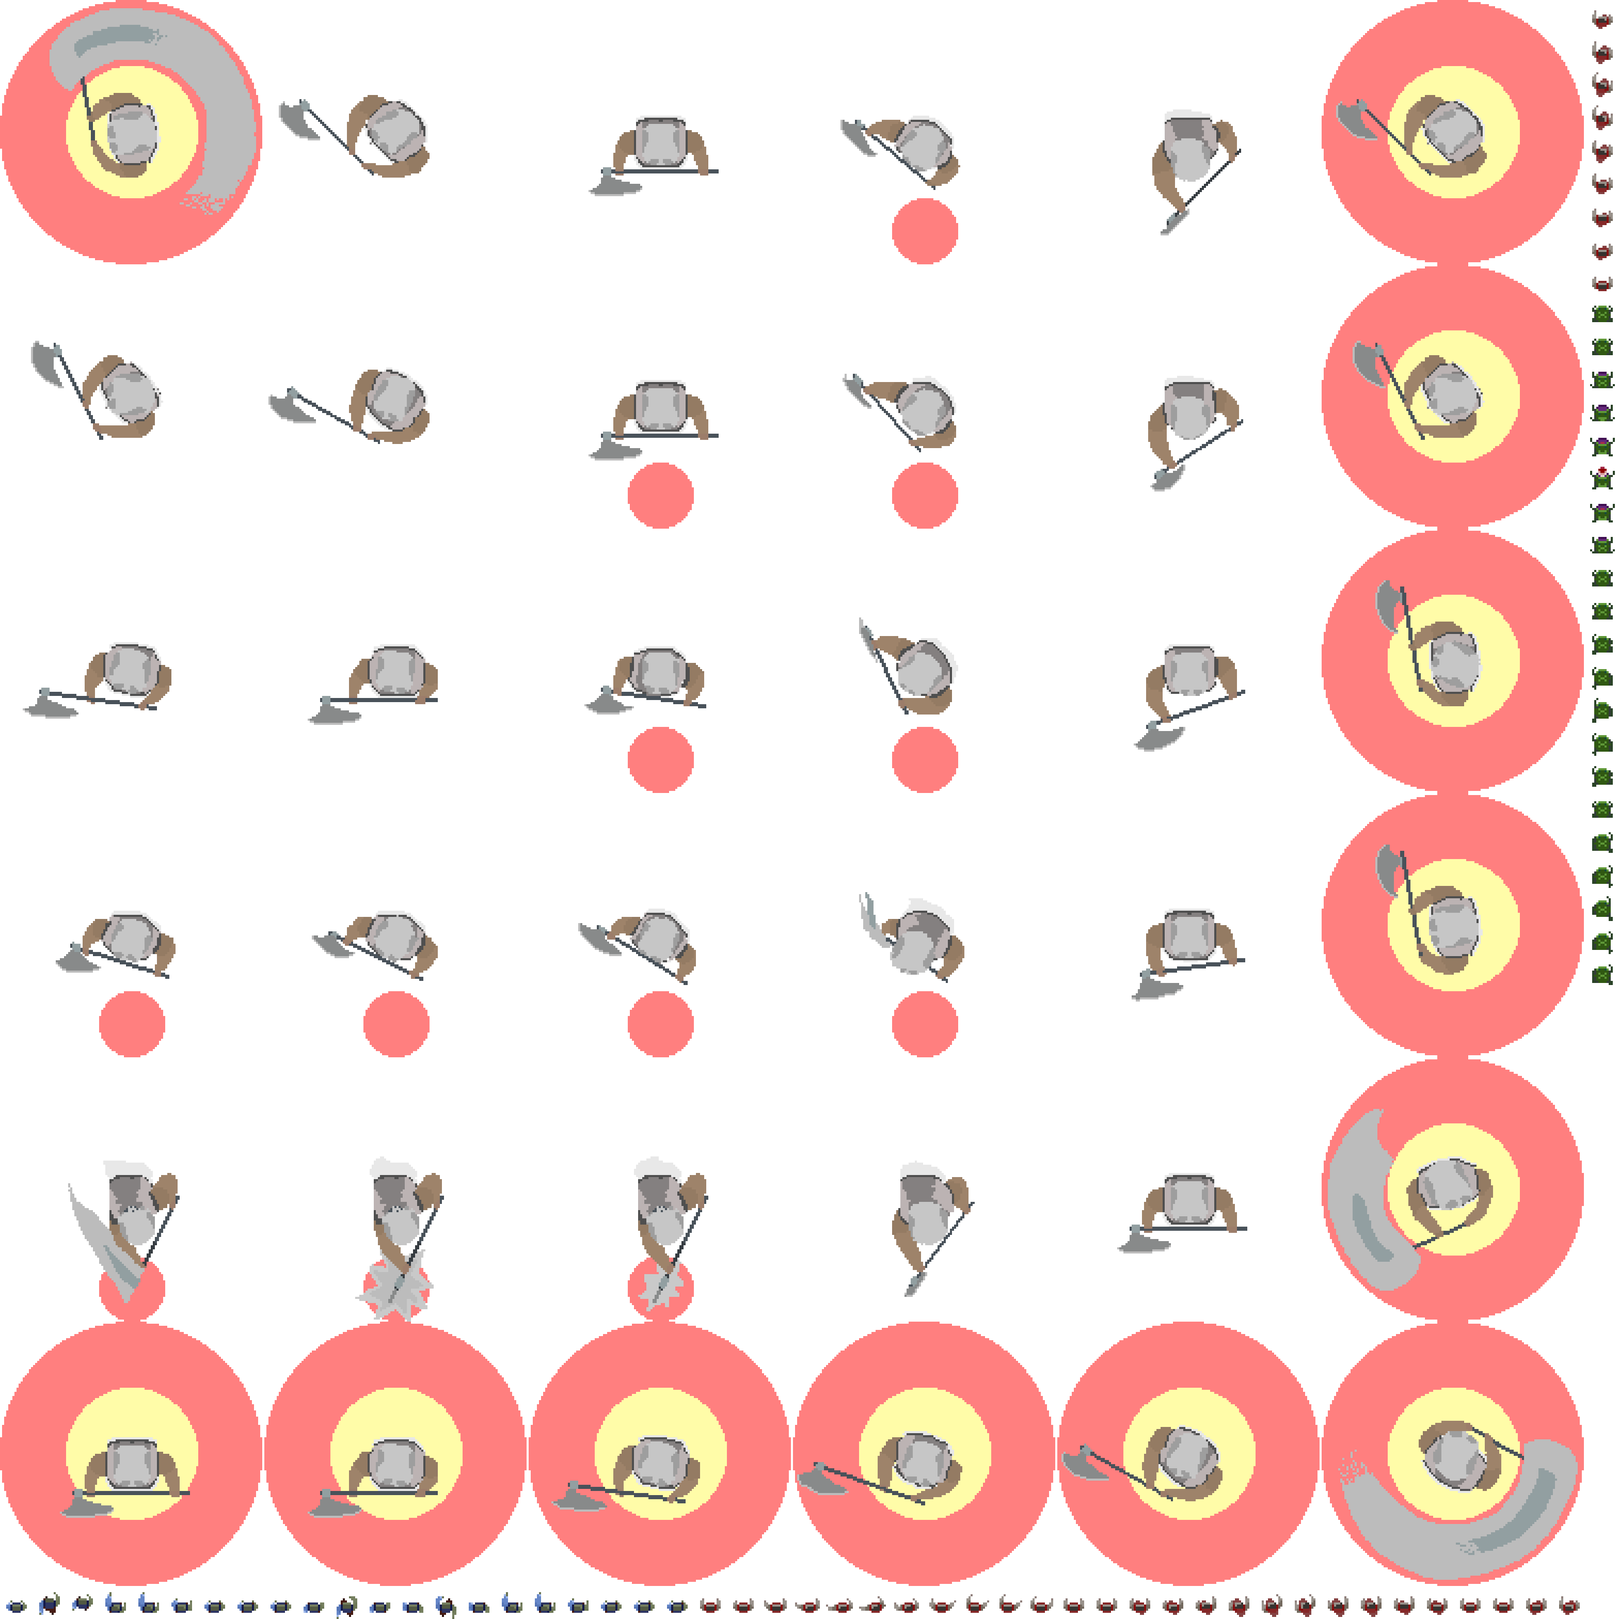
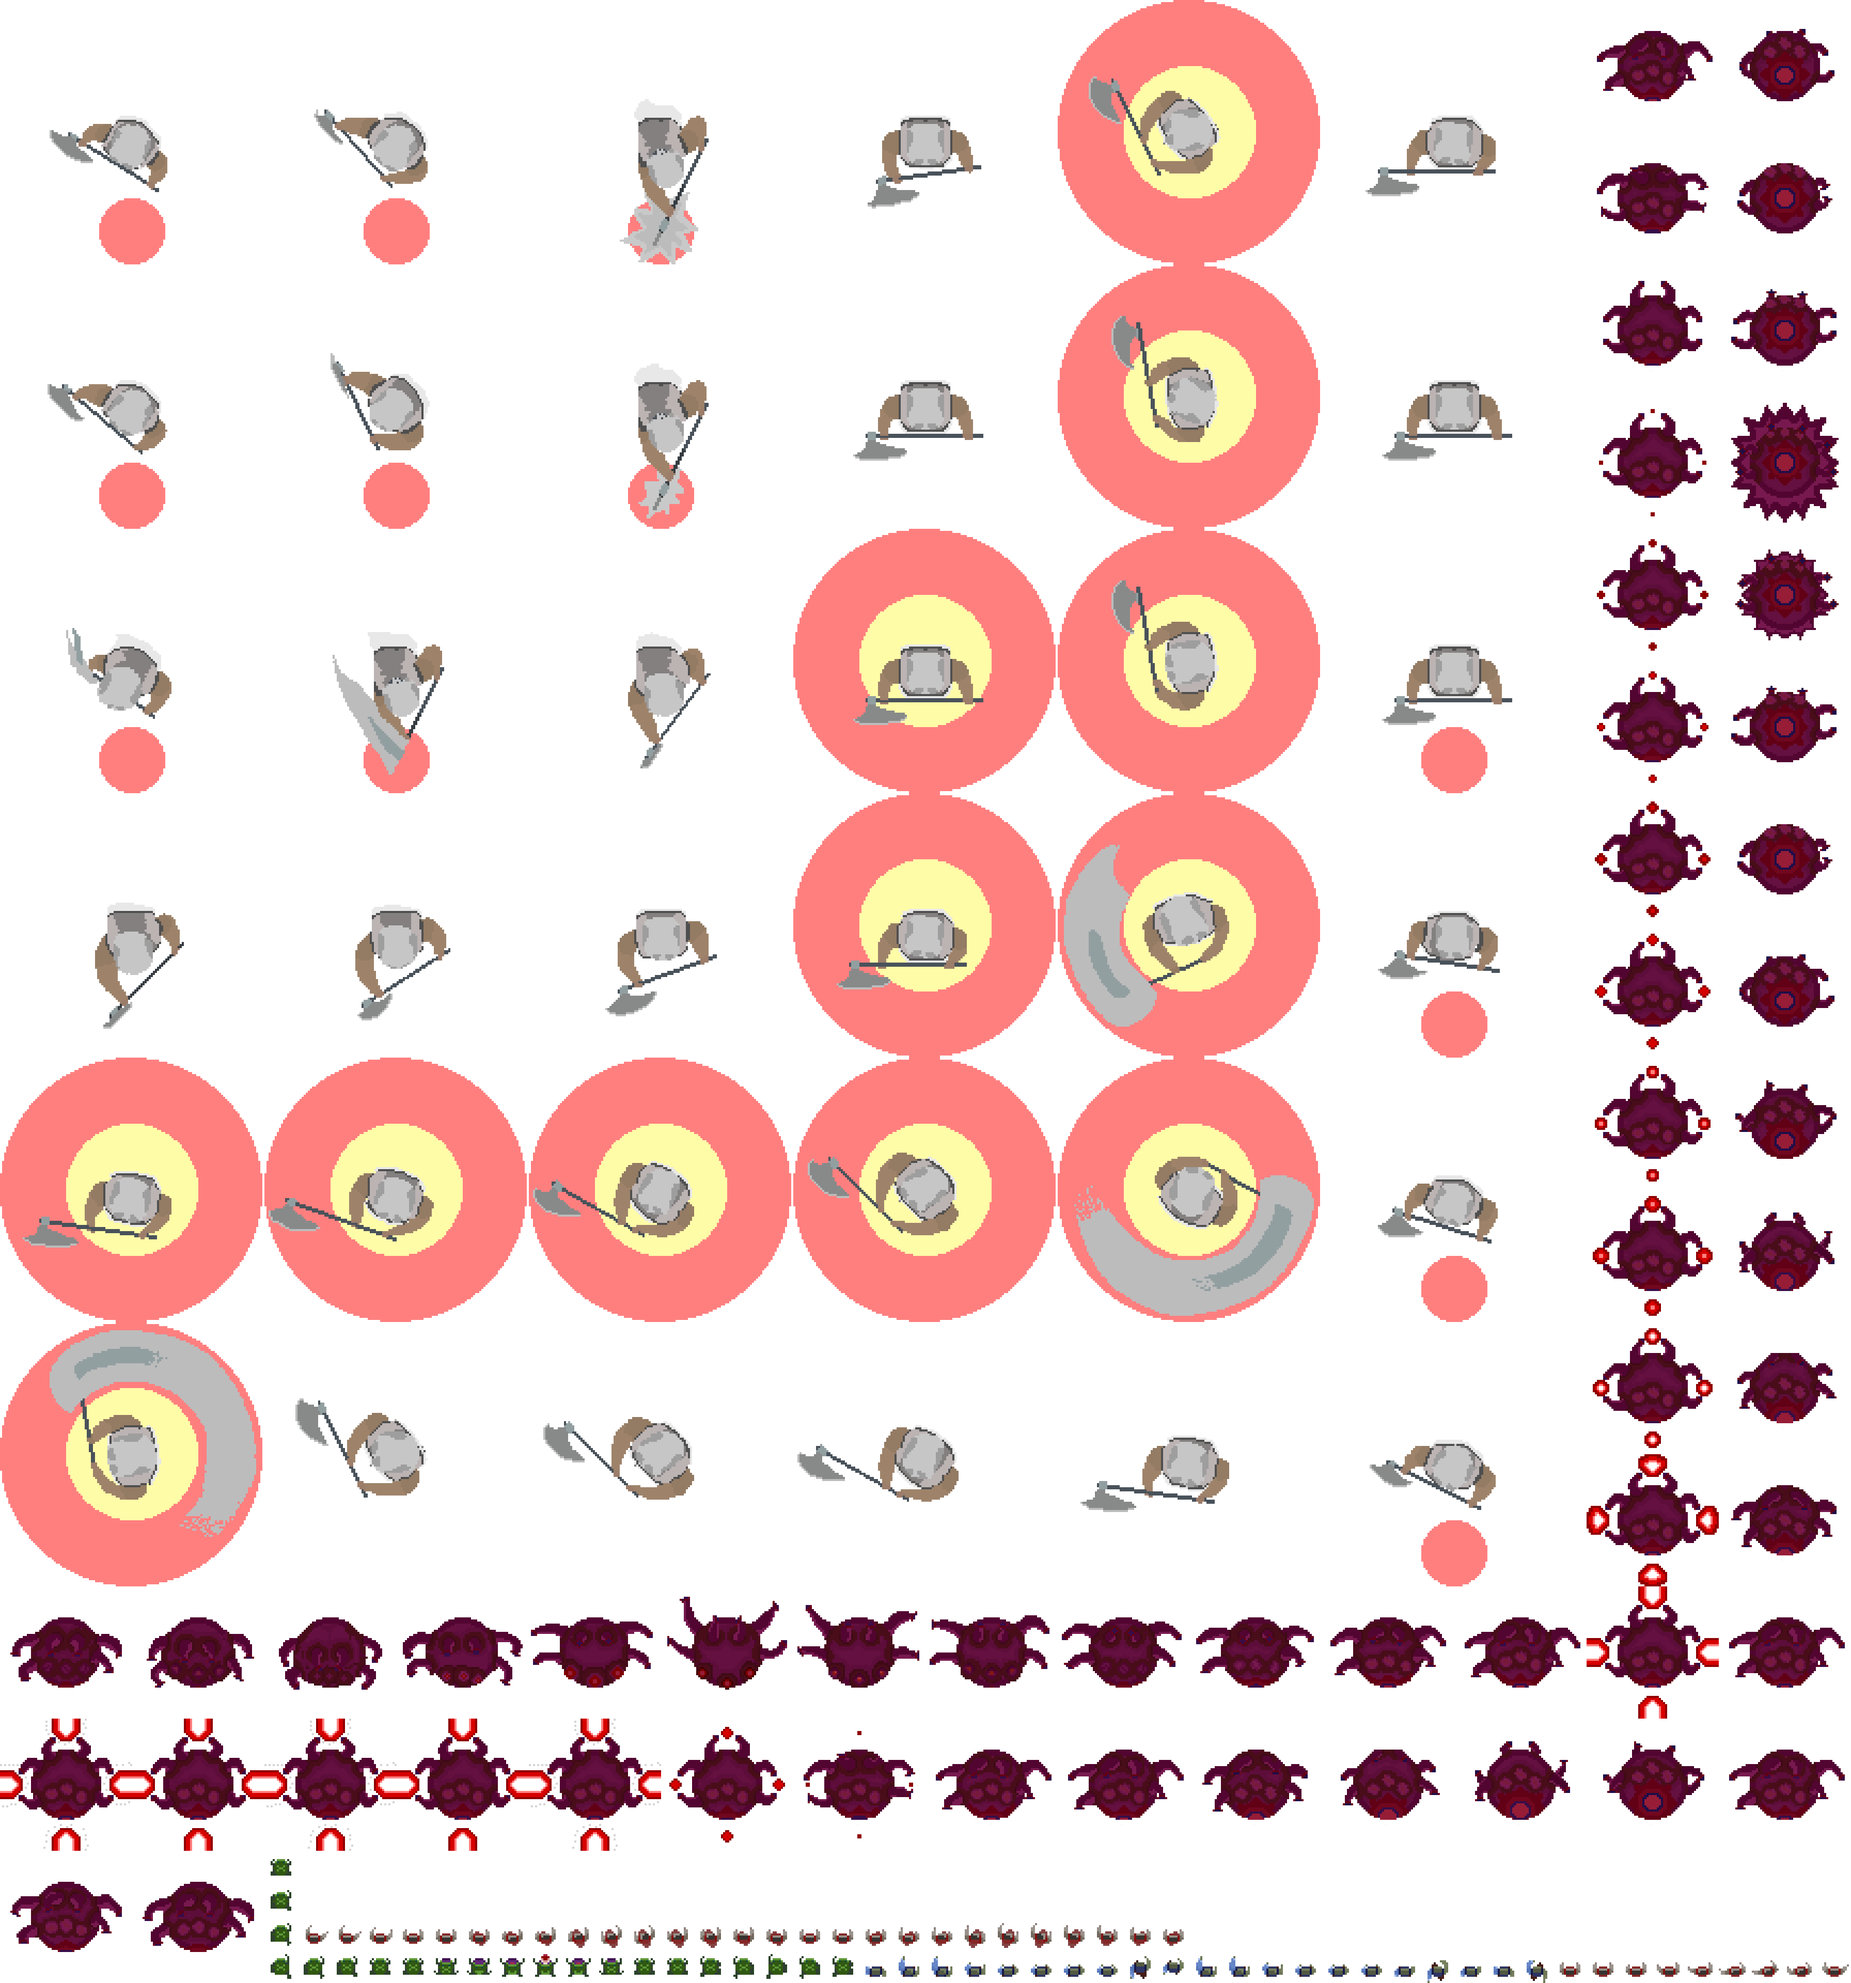
Volume Slider and Dread-Eye anims
really just me fiddling with the plugin

Oh and DreadEye animations. Not the attacks, though

diff --git a/src/scenes/Load.js b/src/scenes/Load.js
@@ -17,7 +17,8 @@ class Load extends Phaser.Scene{
         this.add.text(this.textShift, this.textSpace, "Importing plugins...", this.textConfig);
         this.textSpace += 20;
         
-        this.load.scenePlugin('rexuiplugin', './lib/rexuiplugin.min.js', 'rexUI', 'rexUI');
+        //might want to move this to a global manager and load in load cause it takes a little while
+        //this.load.scenePlugin('rexuiplugin', './lib/rexuiplugin.min.js', 'rexUI', 'rexUI');
 
         this.add.text(this.textShift, this.textSpace, "Loading images...", this.textConfig);
         this.textSpace += 20;
@@ -34,16 +35,16 @@ class Load extends Phaser.Scene{
         this.load.image('shattering_stone', './assets/placeholders/shattering_stones_placeholder.png');
         this.load.image('cardinal_ray', './assets/placeholders/cardinal_ray_placeholder.png');
         this.load.image('health_orb', './assets/placeholders/health_orb_placeholder.png');
-        this.load.image('health_bar', './assets/placeholders/health_bar_placeholder.png');
+        //this.load.image('health_bar', './assets/placeholders/health_bar_placeholder.png');
         //this.load.image('frog', './assets/placeholders/frog_placeholder.png');
         this.load.image('acid_spit', './assets/placeholders/acid_spit_placeholder.png');
         this.load.image('distortion_effect', './assets/placeholders/distortion_placeholder.png');
         this.load.image('portal', './assets/placeholders/portal_placeholder.png');
         //this.load.image('particle', './assets/placeholders/particle_placeholder.png');
         //this.load.image('spark', './assets/placeholders/blue_placeholder.png');
-        this.load.image('volumeSlider_background', './assets/placeholders/volume_slider_background_placeholder.png');
-        this.load.image('volumeSlider_track', './assets/placeholders/volume_slider_track_placeholder.png');
-        this.load.image('volumeSlider_thumb', './assets/placeholders/volume_slider_thumb_placeholder.png');
+        //this.load.image('volumeSlider_background', './assets/placeholders/volume_slider_background_placeholder.png');
+        //this.load.image('volumeSlider_track', './assets/placeholders/volume_slider_track_placeholder.png');
+        //this.load.image('volumeSlider_thumb', './assets/placeholders/volume_slider_thumb_placeholder.png');
 
         //misc. images
         this.load.image('backgroundTile', './assets/cave_tiles_standard.png');
@@ -63,6 +64,12 @@ class Load extends Phaser.Scene{
         this.load.image('level_four_map_tiles', './assets/tilemaps/cave_texture.png');
         this.load.tilemapTiledJSON('level_four_map', './assets/tilemaps/level_4_map.json');
 
+        //UI assets
+        this.load.atlas({
+            key: 'UI',
+            textureURL: './assets/atlases/UI.png',
+            atlasURL: './assets/atlases/UI.json'
+        });
   
         //entity images
         this.load.atlas({
@@ -70,6 +77,7 @@ class Load extends Phaser.Scene{
             textureURL: './assets/atlases/entities.png',
             atlasURL: './assets/atlases/entities.json'
         });
+
         this.load.spritesheet(
             'breakable_wall_tiles', 
             './assets/breakable_wall.png',
@@ -102,8 +110,8 @@ class Load extends Phaser.Scene{
         });*/
 
         //UI images
-        this.load.image('heartUI', './assets/heart.png');
-        this.load.image('magic_missileUI', './assets/missle_charge.png');
+        /*this.load.image('heartUI', './assets/heart.png');
+        this.load.image('magic_missileUI', './assets/missle_charge.png');*/
 
 
         this.add.text(this.textShift, this.textSpace, "Complete", this.textConfig);
@@ -247,7 +255,7 @@ class Load extends Phaser.Scene{
             repeat: 0
         });
         this.anims.create({
-            key: 'boss_dominatingAnim',
+            key: 'skeleton_dominatingAnim',
             frameRate: 12,
             frames: this.anims.generateFrameNames('entities', {
                 start: 1,
@@ -256,12 +264,39 @@ class Load extends Phaser.Scene{
             })
         });
         this.anims.create({
-            key: 'boss_sweepingAnim',
+            key: 'skeleton_sweepingAnim',
             frameRate: 12,
             frames: this.anims.generateFrameNames('entities', {
                 start: 1,
                 end: 18,
                 prefix: 'sb_slashing_strike'
+            })
+        });
+        this.anims.create({
+            key: 'dread_blightAnim',
+            frameRate: 12,
+            frames: this.anims.generateFrameNames('entities', {
+                start: 1,
+                end: 15,
+                prefix: 'de_blight_beams'
+            })
+        });
+        this.anims.create({
+            key: 'dread_cardinalAnim',
+            frameRate: 12,
+            frames: this.anims.generateFrameNames('entities', {
+                start: 1,
+                end: 21,
+                prefix: 'de_cardinal_rays'
+            })
+        });
+        this.anims.create({
+            key: 'dread_stonesAnim',
+            frameRate: 12,
+            frames: this.anims.generateFrameNames('entities', {
+                start: 1,
+                end: 18,
+                prefix: 'de_shattering_stones'
             })
         });
 

diff --git a/prefabs/StatDisplay.js b/prefabs/StatDisplay.js
@@ -5,8 +5,10 @@ class StatDisplay{
         this.player = scene.player;
         //this.cameraView = scene.cameras.main
 
+        //I've hardcoded the positions. Please forgive me
+
         //display the score text
-        this.scoreText = scene.add.text(20, 20, "Score: 0", {
+        this.scoreText = scene.add.text(188, 110, "Score: 0", {
             fontFamily: 'PermanentMarker',
             fontSize: '28px',
             //backgroundColor: '#F3B141',
@@ -20,21 +22,32 @@ class StatDisplay{
 
         //display the Magic Missile charge
         this.magicMissileMeter = [
-            scene.add.sprite(game.config.width - 40, 110, 
-                'magic_missileUI').setScrollFactor(0),//.setScale(this.cameraZoom - 1, this.cameraZoom - 1),
-            scene.add.sprite(game.config.width - 110, 110, 
-                'magic_missileUI').setScrollFactor(0),//.setScale(this.cameraZoom - 1, this.cameraZoom - 1),
-            scene.add.sprite(game.config.width - 180, 110, 
-                'magic_missileUI').setScrollFactor(0)//.setScale(this.cameraZoom - 1, this.cameraZoom - 1)
+            scene.add.sprite(game.config.width - 208, 190, 
+                'UI', 'Magic_Missile_Icon').setScrollFactor(0),//.setScale(this.cameraZoom - 1, this.cameraZoom - 1),
+            scene.add.sprite(game.config.width - 278, 190, 
+                'UI', 'Magic_Missile_Icon').setScrollFactor(0),//.setScale(this.cameraZoom - 1, this.cameraZoom - 1),
+            scene.add.sprite(game.config.width - 348, 190, 
+                'UI', 'Magic_Missile_Icon').setScrollFactor(0)//.setScale(this.cameraZoom - 1, this.cameraZoom - 1)
         ];
         this.magicMissileMeter[0].depth = 1;
         this.magicMissileMeter[1].depth = 1;
         this.magicMissileMeter[2].depth = 1;
 
         //display the Health Bar
-        this.healthBar = scene.add.sprite(game.config.width - 100, 40, 
-            'health_bar').setScrollFactor(0);//.setScale(this.cameraZoom - 1, this.cameraZoom - 1);
+        this.healthBar = scene.add.sprite(game.config.width - 278, 140, 
+            'UI', 'Health_Bar').setScrollFactor(0);//.setScale(this.cameraZoom - 1, this.cameraZoom - 1);
         this.healthBar.depth = 1;
+        //and its border, which we can forget because it's static
+        scene.add.sprite(game.config.width - 278, 140, 
+            'UI', 'Health_Bar_Outline').setScrollFactor(0).depth = 1;
+
+        //display the dash icon
+        this.dashIcon = scene.add.sprite(game.config.width - 208, 255,
+            'UI', 'Dash_Icon').setScrollFactor(0);
+        this.dashIcon.depth = 1;
+        console.log(this.dashIcon);
+        this.dashIcon.on('dashStarted', () => {this.dashIcon.visible = false;});
+        this.dashIcon.on('dashReady', () => {this.dashIcon.visible = true;})
     }
 
     update(){

diff --git a/src/scenes/Menu.js b/src/scenes/Menu.js
@@ -4,7 +4,6 @@ class Menu extends Phaser.Scene{
     }
 
     preload(){
-        //might want to move this to a global manager and load in load cause it takes a little while
         this.load.scenePlugin('rexuiplugin', './lib/rexuiplugin.min.js', 'rexUI', 'rexUI');
     }
 
@@ -70,35 +69,36 @@ class Menu extends Phaser.Scene{
             fixedWidth: 0
         }).setOrigin(0.5);
 
+        //setting background music
+        this.menuSoundSetter();
+
         //creating the volume slider
         //experimental stuff
-        /*
         this.rexUI.add.slider({
-            x: 200,
-            y: game.config.height - 30,
-            width: 200,
-            height: 20,
-            orientation: 'x',
+            x: 50,
+            y: game.config.height - 150,
+            width: 100,
+            height: 200,
+            orientation: 'y',
 
-            background: this.add.image(0, 0, 'volumeSlider_background'),
-            track: this.add.image(0, 0, 'volumeSlider_track'), //this.rexUI.add.roundRectangle(0, 0, 0, 0, 6, COLOR_DARK),
-            thumb: this.add.image(0, 0, 'volumeSlider_thumb'),
+            background: this.add.image(0, 0, 'UI', 'Volume_Bar'),
+            track: this.add.image(0, 0, 'UI', 'Volume_bar_Slider'), //this.rexUI.add.roundRectangle(0, 0, 0, 0, 6, COLOR_DARK),
+            thumb: this.add.image(0, 0, 'UI', 'Volume_Knob'),
 
-            valuechangeCallback: function (value) {
-                //musicVolume = value;
-                //music.setVolume(musicVolume);
+            value: musicVolume,
+            valuechangeCallback: function (value, oldValue, slider) {
+                //because for some reason, the top is 0 and the bottom is 1
+                musicVolume = 1 - value;
+                slider.scene.sound.volume = musicVolume;
             },
             space: {
-                top: 4,
-                bottom: 4
+                //top: -36,
+                //bottom: -36,
             },
             input: 'drag', // 'drag'|'click'
         })
-            .layout();*/
+            .layout();
 
-
-        //setting background music
-        this.menuSoundSetter();
     }
 
     update(){

diff --git a/src/scenes/test/TestMap.js b/src/scenes/test/TestMap.js
@@ -5,7 +5,7 @@ class TestMap extends Phaser.Scene{
 
     preload(){
         this.nextScene = "levelOneScene";
-        this.bossFactor = 1;
+        this.bossFactor = 3;
         this.distortionFactor = {count: 40, damage: 3};
     }
 
@@ -15,16 +15,15 @@ class TestMap extends Phaser.Scene{
 
         //this.cameras.main.setTint('#FF0000')
 
-        this.enemyGroup.addMultiple([
-            new Zombie(
-                this,               //scene
-                600,        //x
-                500,     //y
-                'entities',          //sprite
-                'zom_walk1',    //start frame of anim
-            ),
-
-        ]);
+        this.boss = new DreadEyes(
+            this,               //scene
+            500,        //x
+            500,     //y
+            'entities',          //sprite
+            'de_blight_beams1',      //start frame of anim
+            this.bossFactor                   //boss level
+            );
+        this.enemyGroup.add(this.boss);
 
         this.keySPACE = this.input.keyboard.addKey(Phaser.Input.Keyboard.KeyCodes.SPACE);
     }

diff --git a/prefabs/enemies/DreadEyes.js b/prefabs/enemies/DreadEyes.js
@@ -73,6 +73,7 @@ class DreadEyes extends Enemy{
     }
 
     blightBeams(){
+        this.anims.play('dread_blightAnim');
         Phaser.Utils.Array.Add(this.timers, this.scene.time.addEvent({
             delay: 750,
             callback: () => {
@@ -92,6 +93,7 @@ class DreadEyes extends Enemy{
         let yOff;   //the distance from the boss the rock should spawn on the y Axis
 
         //timer that spawns the rocks
+        this.anims.play('dread_stonesAnim');
         let spawnTimer = this.scene.time.addEvent({
             delay: 250,
             callback: () => {
@@ -115,6 +117,9 @@ class DreadEyes extends Enemy{
     }
 
     cardinalRays(){
+        //I want to tween this, but I can do that later
+        this.rotation = 0;
+        this.anims.play('dread_cardinalAnim');
         Phaser.Utils.Array.Add(this.timers, this.scene.time.addEvent({
             delay: 1000,
             callback: () => {

diff --git a/prefabs/Player.js b/prefabs/Player.js
@@ -238,6 +238,7 @@ class Player extends Phaser.GameObjects.Sprite{
     dashAttack(){
         if(this.canDash){
             console.log("Dashing!");
+            this.stats.dashIcon.emit('dashStarted');    //I need them to emit off of the icon because their container isn't a GameObject
             //if the player is facing forward, their destination is 128 pixels infront of them.
             //attackRotation will automatically set the destination coods based off of this offset and player rotation
             let destination = this.spawningRotation(128);
@@ -263,6 +264,7 @@ class Player extends Phaser.GameObjects.Sprite{
                 callback: () => {
                     this.canDash = true;
                     console.log("Dash ready!")
+                    this.stats.dashIcon.emit('dashReady');
                 },
                 callbackScope: this
             });

diff --git a/src/SceneLoad.js b/src/SceneLoad.js
@@ -238,8 +238,8 @@ class SceneLoad extends Phaser.Scene{
                 this,               //scene
                 tile.pixelX,        //x
                 tile.pixelY-64,     //y
-                'dread_eyes',          //sprite
-                0,      //start frame of anim
+                'entities',          //sprite
+                'de_blight_beams1',      //start frame of anim
                 this.bossFactor                   //boss level
                 );
             this.enemyGroup.add(this.boss);

diff --git a/src/main.js b/src/main.js
@@ -10,7 +10,6 @@ DEPRECEATED
 or is otherwise unused. This is because I am a code hoarder. I will clean it up eventually.
     -Thomas.
 */
-
 let config = {
     type: Phaser.CANVAS,
     width: 1024,
@@ -42,6 +41,7 @@ let keyLEFT, keyRIGHT, keyUP, keyDOWN, keyQ, keyE, keyW;
 
 //reserving other global variables
 let menuMusicPlaying = false;
+let musicVolume = 0.5;
 
 //resuming game sound if paused by browser
 if (game.sound.context.state === 'suspended') {

diff --git a/prefabs/attacks/DominatingStrike.js b/prefabs/attacks/DominatingStrike.js
@@ -11,10 +11,10 @@ class DominatingStrike extends Attack{
 
         //choosing animation based on type
         if(this.type == 1){
-            this.bossAnim = 'boss_sweepingAnim';
+            this.bossAnim = 'skeleton_sweepingAnim';
         }
         else{
-            this.bossAnim = 'boss_dominatingAnim';
+            this.bossAnim = 'skeleton_dominatingAnim';
         }
 
         //type determines the nature of the attack

diff --git a/src/scenes/End.js b/src/scenes/End.js
@@ -9,6 +9,7 @@ class End extends Phaser.Scene{
 
         //background images
         //this.load.image('backgroundTile', './assets/dirt.png');
+        //this.sound.volune = musicVolume;
     }
 
     create(){
